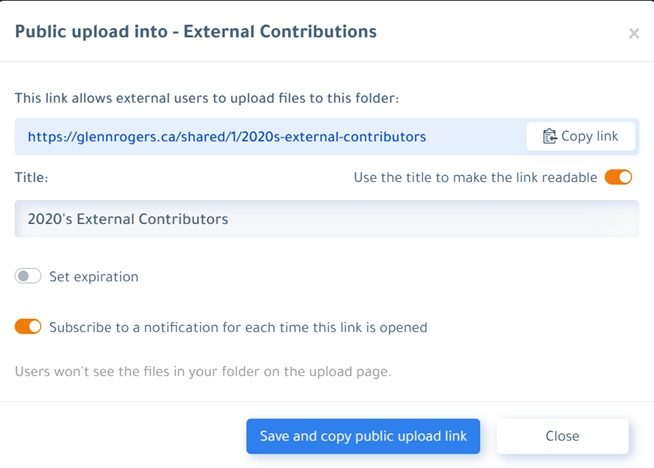
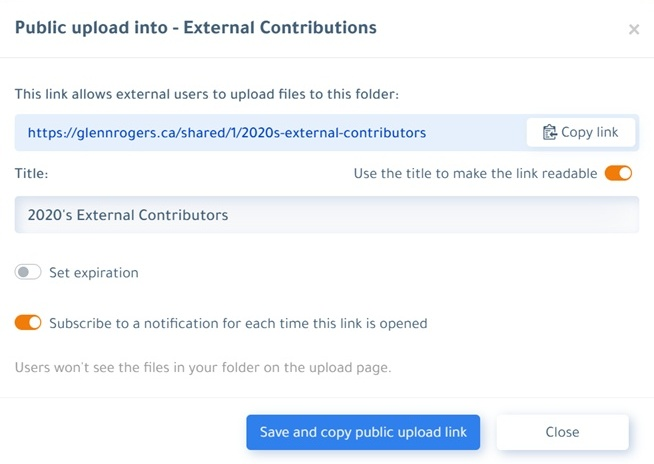
Draft X

diff --git a/beyond-basics/public-upload.md b/beyond-basics/public-upload.md
@@ -39,7 +39,7 @@ Options here include:
   </figcaption>
 </figure>
 
-If the Public Folders configuration window looks similiar to the Sharing configuration window, it is because they are indeed functionaly related. Public Uploads share a folder for uploading, and is accessible by anyone with the link.  Sharing allows viewing of images by anyone with the link.  This is also why both these are combined on the Share Management page.
+If the Public Folders configuration window looks similiar to the <a href="https://docs.dbgallery.com/sharing">Sharing</a> configuration window, it is because they are indeed functionaly related. Public Uploads share a folder for uploading, and is accessible by anyone with the link.  Sharing allows viewing of images by anyone with the link.  This is also why both these are combined on the Share Management page.
 
 ### 3. Share the link
 Upon pressing the "Save and copy public upload link" button, the link is copied to the clipboard and is ready to provide to recipients.  That may be via email, a messaging platform such as Slack, or dropping it on social media.
@@ -48,18 +48,20 @@ Upon pressing the "Save and copy public upload link" button, the link is copied 
 When a recipient clicks the link, they will see the following:
 
 <figure style="text-align:center;max-width:600px;margin:2rem auto;">
-  <img src="/assets/public-upload-user-sees.jpg" alt="Public folders - what the recipient sees" style="width:66%;height:auto;border: 2px solid black; border-radius: 10px;">
+  <img src="/assets/public-upload-user-sees.jpg" alt="Public folders - what the recipient sees" style="width:100%;height:auto;border: 2px solid black; border-radius: 10px;">
   <figcaption style="margin-top:0.75rem;font-style:italic;color:#555;">
     What the user sees before adding any images.  Either drag and drop files, or press Add files to choose.  This works the same no matter the device.
   </figcaption>
 </figure>
 
-<strong>NOTE:</strong>Existing files are never shown.  Even if clicking that link again the same user would not see the files the previously uploaded. 
+<strong>NOTE: </strong>Existing files are never shown.  Even if clicking that link again the same user would not see the files they previously uploaded. 
 
-If duplicate filenames are uploaded, they will automatically be give a new name, such as i-am-a-duplicate(2).jpg.
+Duplicates: If duplicate filenames are uploaded, they will automatically be give a new name, such as i-am-a-duplicate(2).jpg.
+
+Logo: The logo shown will be the one set within your DBGallery.  The default will be the DBGallery logo.  See more in <a href="https://docs.dbgallery.com/white-labelling">White Labelling</a>.
 
 <figure style="text-align:center;max-width:600px;margin:2rem auto;">
-  <img src="/assets/public-upload-user-sees-after-upload.jpg" alt="Public folders - what the recipient sees after upload" style="width:66%;height:auto;border: 2px solid black; border-radius: 10px;">
+  <img src="/assets/public-upload-user-sees-after-upload.jpg" alt="Public folders - what the recipient sees after upload" style="width:100%;height:auto;border: 2px solid black; border-radius: 10px;">
   <figcaption style="margin-top:0.75rem;font-style:italic;color:#555;">
     Upon uploading, thumbs are shown.  Clicking the Show Details button near the top right would show a subset of metadata, including what was AI generated.
   </figcaption>
